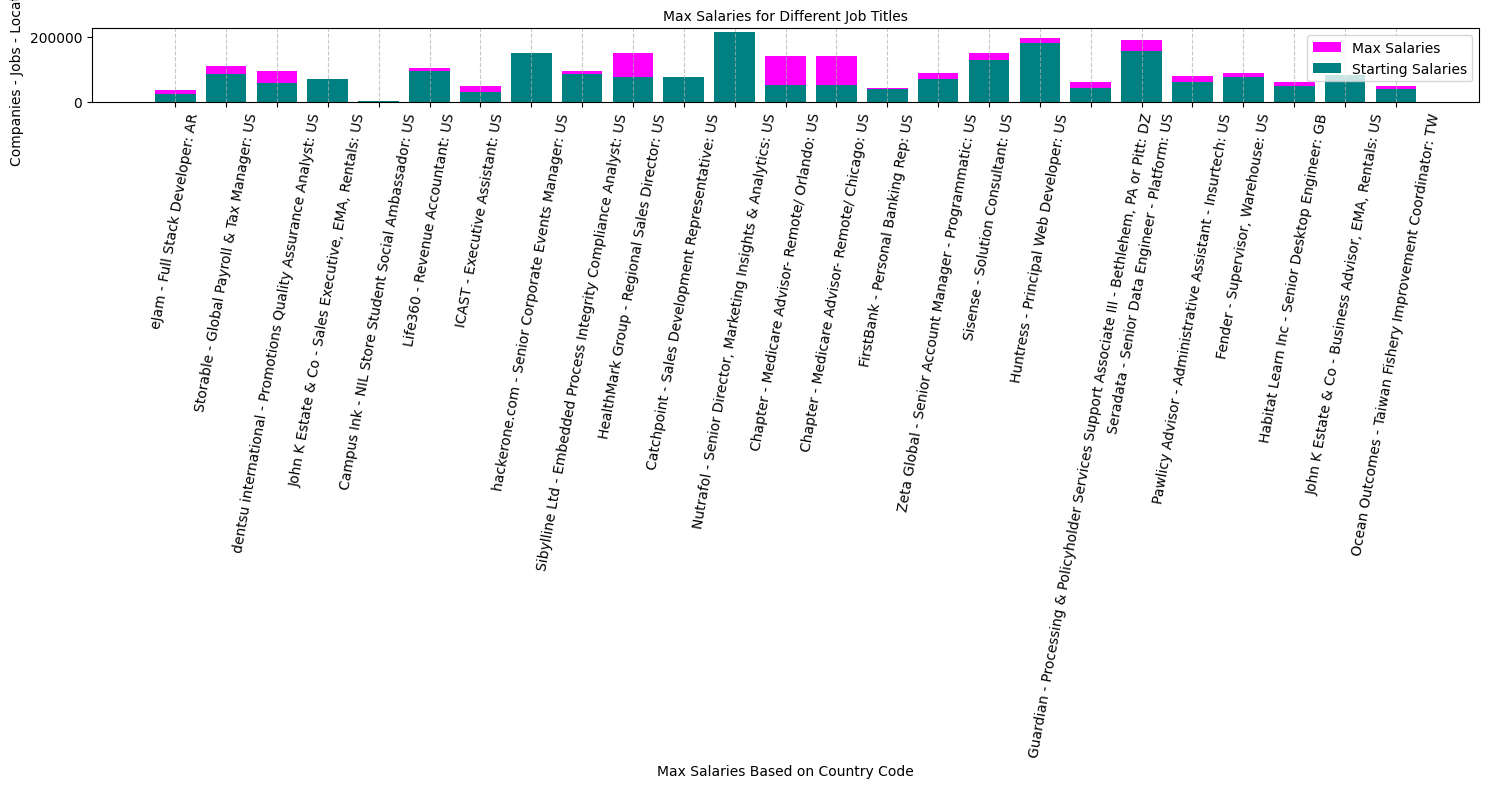
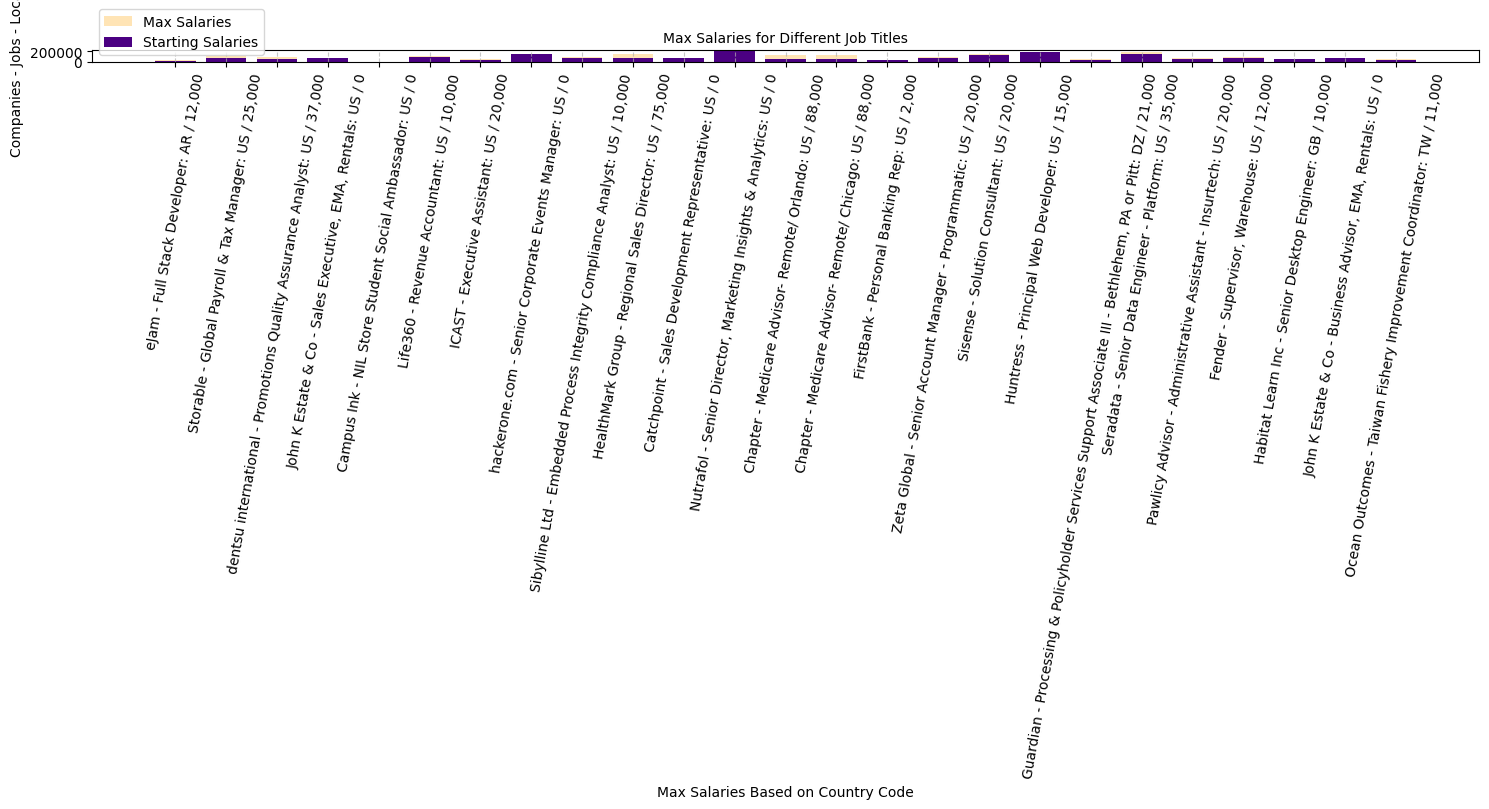
Add salary difference and update matplot csv export

diff --git a/api/templates/image.html b/api/templates/image.html
@@ -62,11 +62,7 @@
 
         <div class="formbg-outer">
 
-
-
-
-
-          <div class="formbg" style="max-width: 75%;">
+          <div class="formbg" style="max-width: 80%;">
             <div class="formbg-inner padding-horizontal--48">
               <span class="padding-bottom--15"></span>
 

diff --git a/data_analysis/matplotlib_visuals/plots.py b/data_analysis/matplotlib_visuals/plots.py
@@ -1,14 +1,27 @@
 import random
 from .colors import colors
 from data_analysis.pandas_data.data_to_csv import df
+import pandas as pd
 import matplotlib.pyplot as plt
 
+differ = [
+    f"{max_salary - df["starting_salaries"][i]:,}"
+    for i, max_salary in enumerate(df["max_salaries"])
+]
+
+difference = pd.DataFrame({"difference": differ})
 
 # Line Plot
 def line_plot(df):
     plt.figure(figsize=(15, 8))
     plt.plot(
-        df["company_names"] + " - " + df["job_titles"] + ": " + df["locations"],
+        df["company_names"]
+        + " - "
+        + df["job_titles"]
+        + ": "
+        + df["locations"]
+        + " / "
+        + difference["difference"],
         df["max_salaries"],
         label="Max Salaries",
         color=random.choice(colors),
@@ -16,7 +29,13 @@ def line_plot(df):
         linestyle="-",
     )
     plt.plot(
-        df["company_names"] + " - " + df["job_titles"] + ": " + df["locations"],
+        df["company_names"]
+        + " - "
+        + df["job_titles"]
+        + ": "
+        + df["locations"]
+        + " / "
+        + difference["difference"],
         df["starting_salaries"],
         label="Starting Salaries",
         color=random.choice(colors),
@@ -41,14 +60,26 @@ def line_plot(df):
 def bar_plot(df):
     plt.figure(figsize=(15, 8))
     plt.bar(
-        df["company_names"] + " - " + df["job_titles"] + ": " + df["locations"],
+        df["company_names"]
+        + " - "
+        + df["job_titles"]
+        + ": "
+        + df["locations"]
+        + " / "
+        + difference["difference"],
         df["max_salaries"],
         label="Max Salaries",
         color=random.choice(colors),
         linestyle="-",
     )
     plt.bar(
-        df["company_names"] + " - " + df["job_titles"] + ": " + df["locations"],
+        df["company_names"]
+        + " - "
+        + df["job_titles"]
+        + ": "
+        + df["locations"]
+        + " / "
+        + difference["difference"],
         df["starting_salaries"],
         label="Starting Salaries",
         color=random.choice(colors),
@@ -75,13 +106,25 @@ def barh_plot(df):
 
     plt.figure(figsize=(15, 8))
     plt.barh(
-        df["company_names"] + " - " + df["job_titles"] + ": " + df["locations"],
+        df["company_names"]
+        + " - "
+        + df["job_titles"]
+        + ": "
+        + df["locations"]
+        + " / "
+        + difference["difference"],
         df["max_salaries"],
         label="Max Salaries",
         color=random.choice(colors),
     )
     plt.barh(
-        df["company_names"] + " - " + df["job_titles"] + ": " + df["locations"],
+        df["company_names"]
+        + " - "
+        + df["job_titles"]
+        + ": "
+        + df["locations"]
+        + " / "
+        + difference["difference"],
         df["starting_salaries"],
         label="Starting Salaries",
         color=random.choice(colors),

diff --git a/api/api_methods/get_method/get.py b/api/api_methods/get_method/get.py
@@ -1,14 +1,28 @@
 import random
 from data_analysis.matplotlib_visuals.colors import colors
+import pandas as pd
 import matplotlib.pyplot as plt
 from .generate_df import df
 
 
 def create_plot(df):
+    differ = [
+        f"{max_salary - df["starting_salary"][i]:,}"
+        for i, max_salary in enumerate(df["max_salary"])
+    ]
+
+    difference = pd.DataFrame({"difference": differ})
+
     fig, ax = plt.subplots(figsize=(15, 8))
 
     ax.barh(
-        df["company_name"] + " - " + df["job_title"] + ": " + df["location"],
+        df["company_name"]
+        + " - "
+        + df["job_title"]
+        + ": "
+        + df["location"]
+        + " / "
+        + difference["difference"],
         df["max_salary"],
         label="Max Salary",
         color=random.choice(colors),
@@ -16,14 +30,28 @@ def create_plot(df):
     )
 
     ax.barh(
-        df["company_name"] + " - " + df["job_title"] + ": " + df["location"],
+        df["company_name"]
+        + " - "
+        + df["job_title"]
+        + ": "
+        + df["location"]
+        + " / "
+        + difference["difference"],
         df["starting_salary"],
         label="Starting Salary",
         color=random.choice(colors),
         height=0.4,
     )
 
-    ax.set_yticks(df["company_name"] + " - " + df["job_title"] + ": " + df["location"])
+    ax.set_yticks(
+        df["company_name"]
+        + " - "
+        + df["job_title"]
+        + ": "
+        + df["location"]
+        + " / "
+        + difference["difference"]
+    )
 
     ax.set_xlabel("Salaries")
     ax.set_ylabel("Companies - Jobs - Locations")

diff --git a/api/app.py b/api/app.py
@@ -84,3 +84,7 @@ def job_salaries():
     # Encode the image data as base64
     image_data = base64.b64encode(buf.getvalue()).decode("utf-8")
     return render_template("image.html", image_data=image_data)
+
+
+if __name__ == "__main__":
+    app.run(debug=True)

diff --git a/README.md b/README.md
@@ -3,3 +3,5 @@
 
 
 ![linkedout](assets/images/linkedout_00.gif "linkedout")
+
+![linkedout](assets/images/linkedout_00.png "linkedout")
